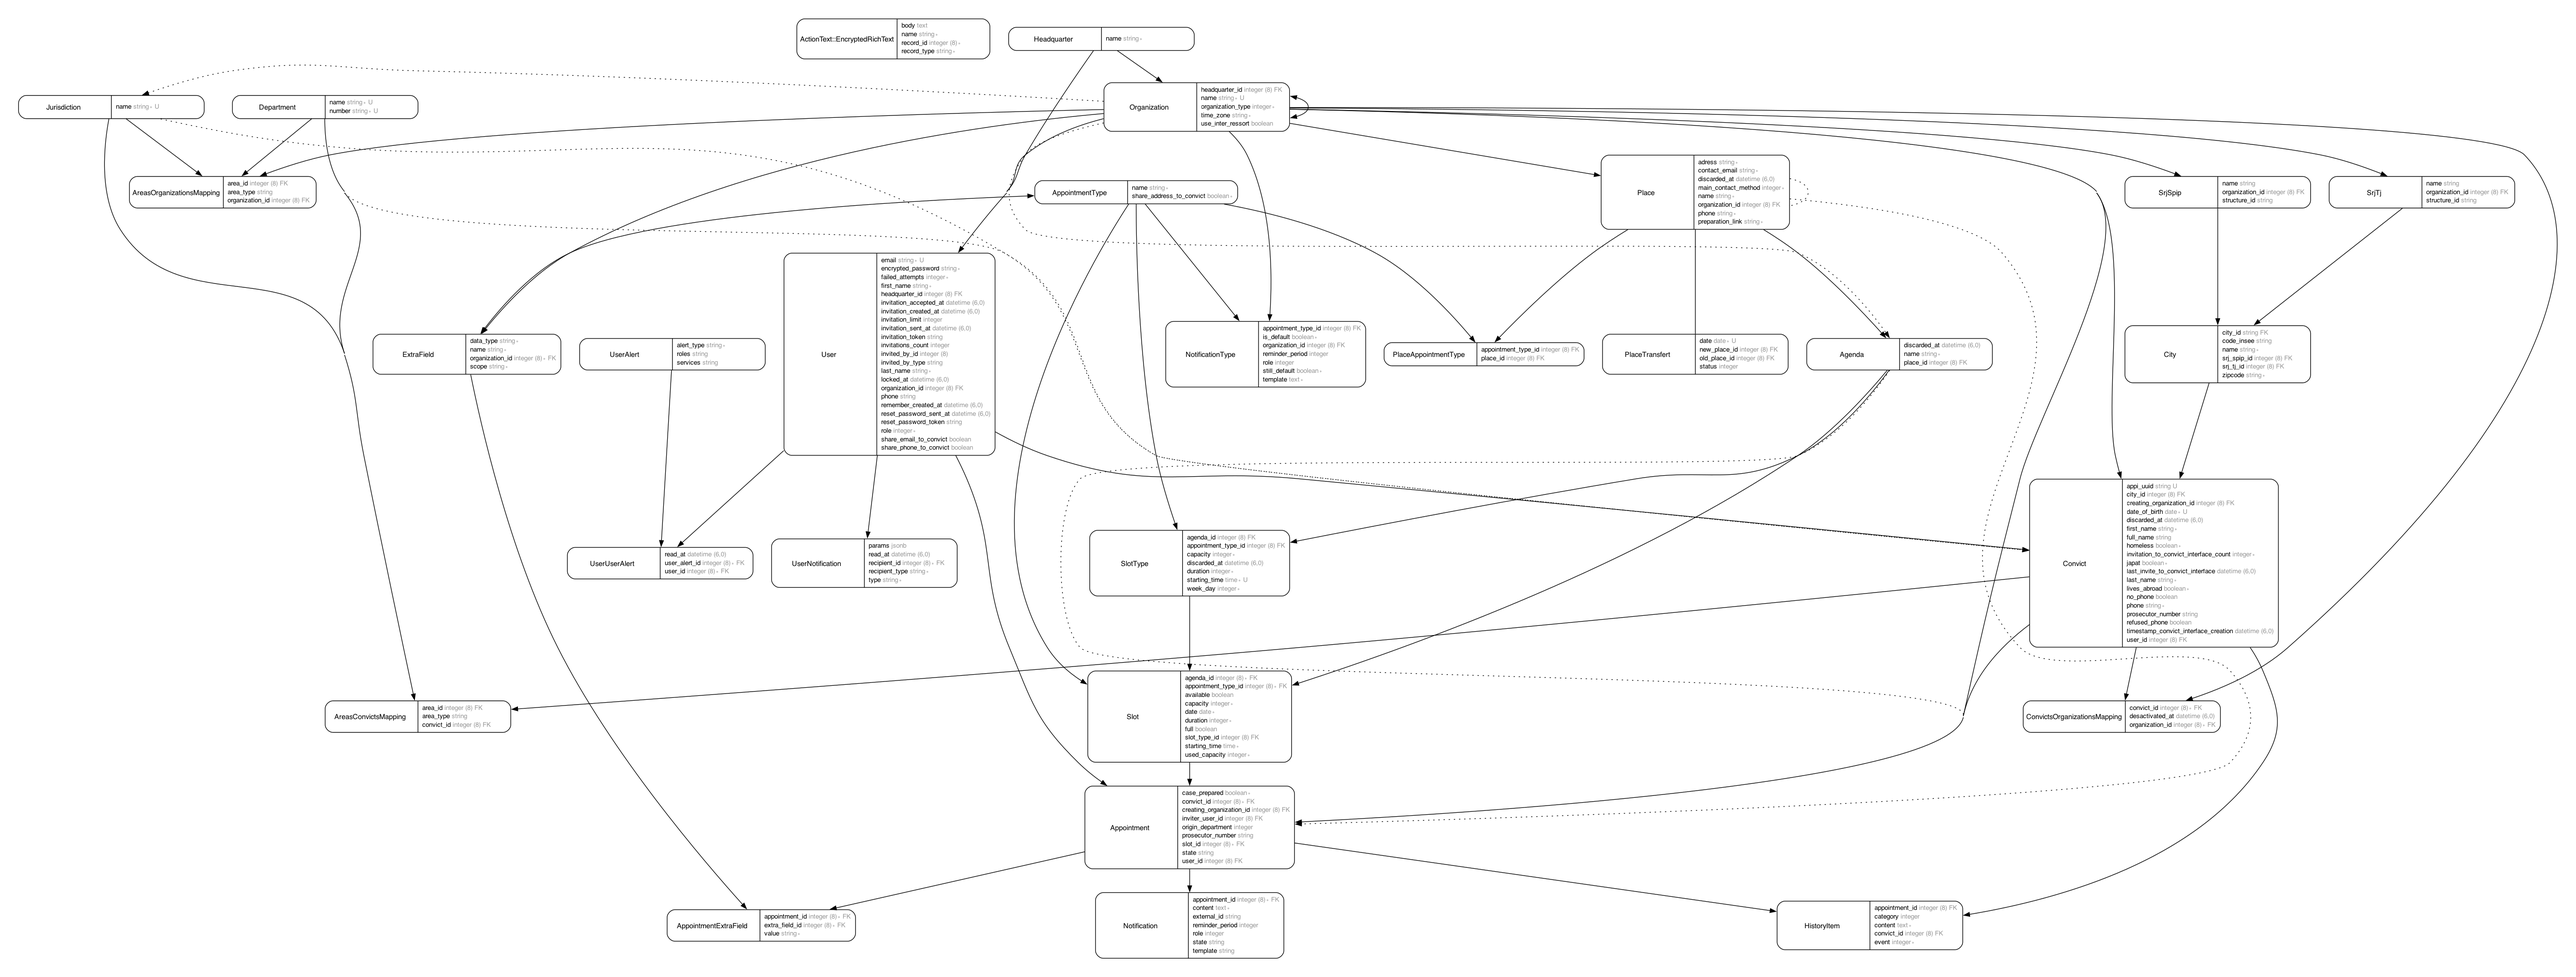
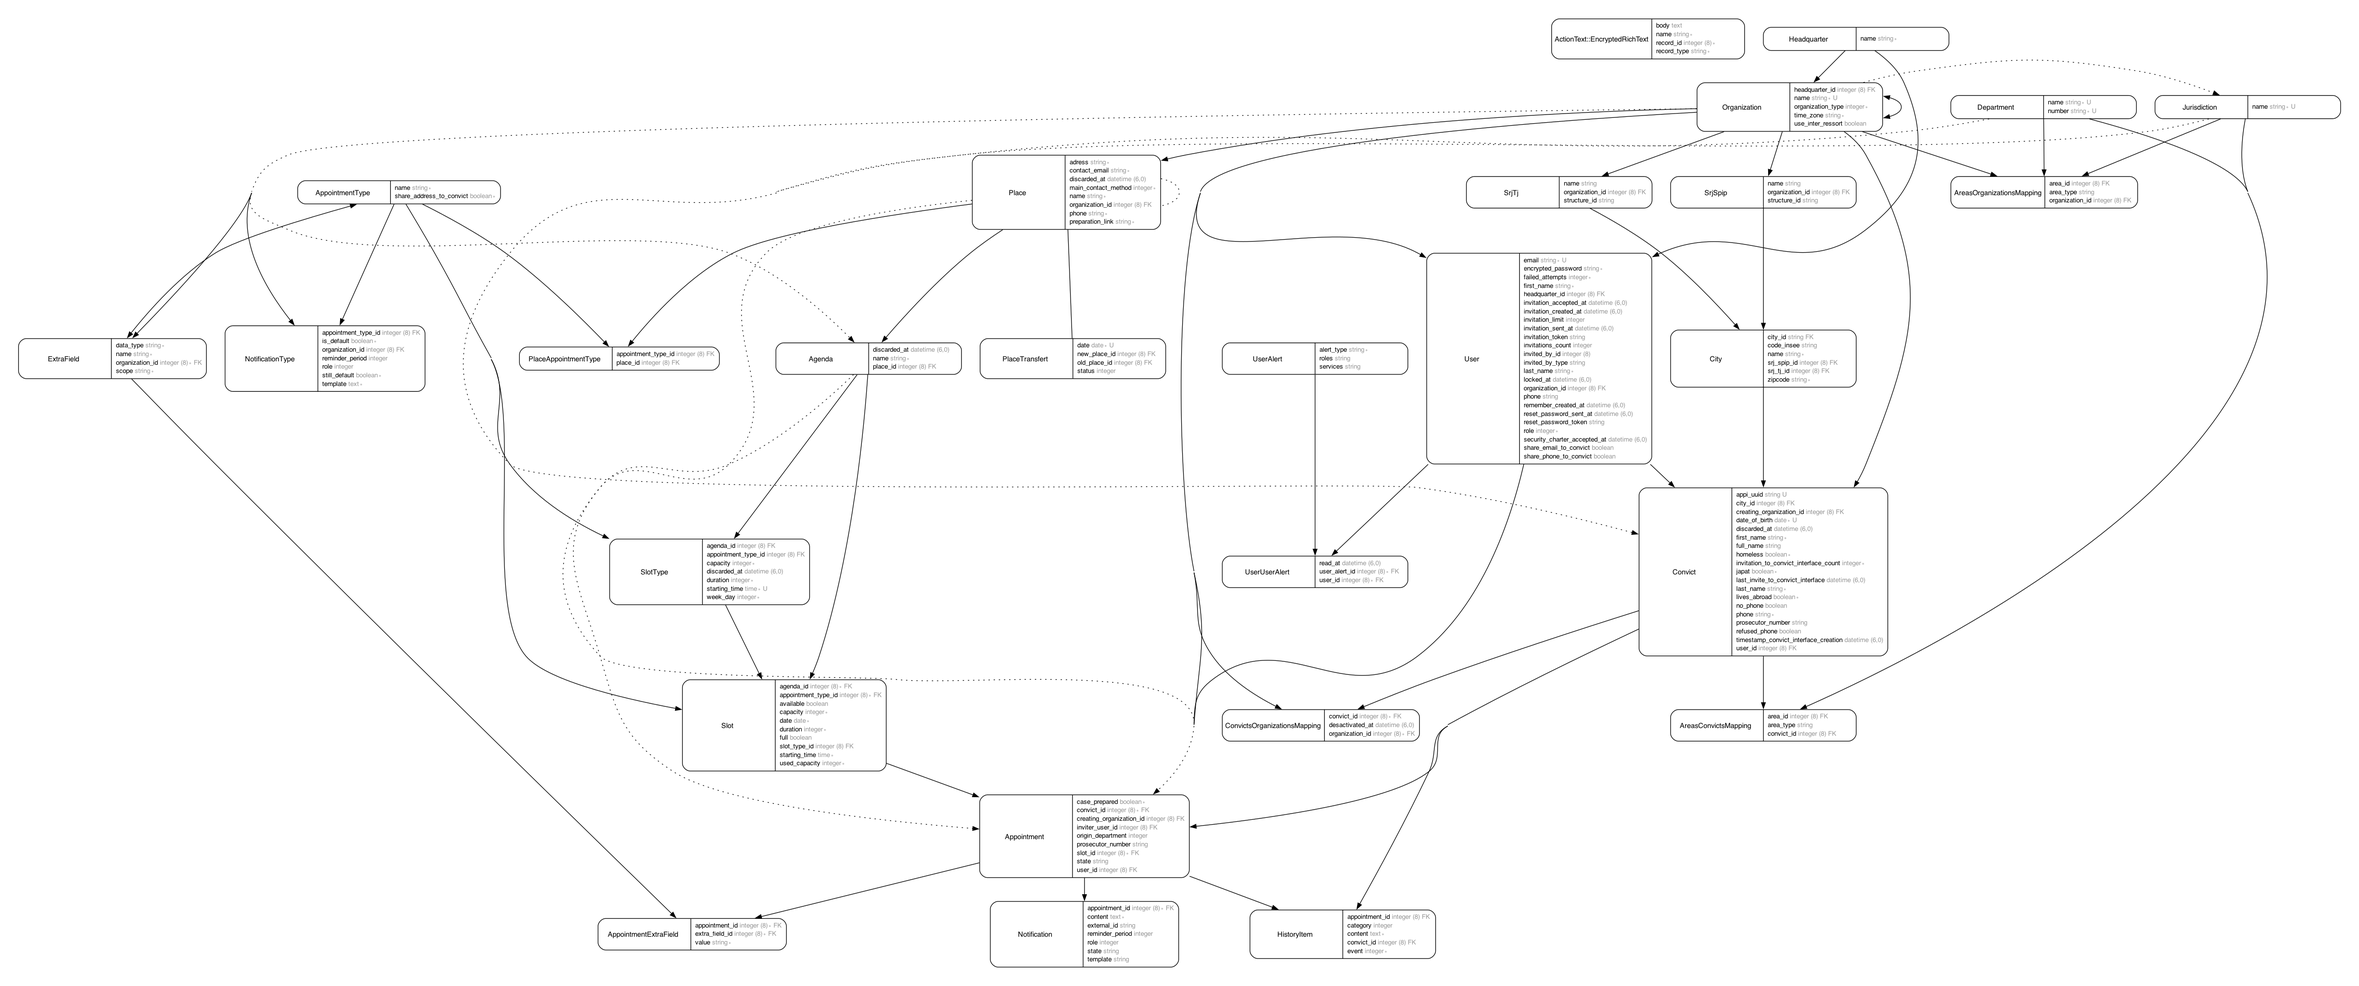
Remove user notications

diff --git a/app/assets/stylesheets/application.postcss.css b/app/assets/stylesheets/application.postcss.css
@@ -34,7 +34,6 @@
 @import "actiontext";
 
 @import "ie";
-@import "user_notification";
 
 @import "dsfr_custom";
 @import "flatpickr/dist/flatpickr.css";

diff --git a/db/schema.rb b/db/schema.rb
@@ -10,7 +10,7 @@
 #
 # It's strongly recommended that you check this file into your version control system.
 
-ActiveRecord::Schema[7.0].define(version: 2023_11_19_132139) do
+ActiveRecord::Schema[7.0].define(version: 2024_02_19_201008) do
   # These are extensions that must be enabled in order to support this database
   enable_extension "plpgsql"
   enable_extension "unaccent"
@@ -449,18 +449,6 @@ ActiveRecord::Schema[7.0].define(version: 2023_11_19_132139) do
     t.string "roles"
   end
 
-  create_table "user_notifications", force: :cascade do |t|
-    t.string "recipient_type", null: false
-    t.bigint "recipient_id", null: false
-    t.string "type", null: false
-    t.jsonb "params"
-    t.datetime "read_at"
-    t.datetime "created_at", null: false
-    t.datetime "updated_at", null: false
-    t.index ["read_at"], name: "index_user_notifications_on_read_at"
-    t.index ["recipient_type", "recipient_id"], name: "index_user_notifications_on_recipient"
-  end
-
   create_table "user_user_alerts", force: :cascade do |t|
     t.bigint "user_id", null: false
     t.bigint "user_alert_id", null: false
@@ -498,6 +486,7 @@ ActiveRecord::Schema[7.0].define(version: 2023_11_19_132139) do
     t.bigint "headquarter_id"
     t.integer "failed_attempts", default: 0, null: false
     t.datetime "locked_at"
+    t.datetime "security_charter_accepted_at"
     t.index ["email"], name: "index_users_on_email", unique: true
     t.index ["headquarter_id"], name: "index_users_on_headquarter_id"
     t.index ["invitation_token"], name: "index_users_on_invitation_token", unique: true
@@ -512,9 +501,11 @@ ActiveRecord::Schema[7.0].define(version: 2023_11_19_132139) do
     t.bigint "item_id", null: false
     t.string "event", null: false
     t.string "whodunnit"
-    t.text "object"
+    t.text "old_object"
     t.datetime "created_at"
-    t.text "object_changes"
+    t.text "old_object_changes"
+    t.jsonb "object"
+    t.jsonb "object_changes"
     t.index ["item_type", "item_id"], name: "index_versions_on_item_type_and_item_id"
   end
 

diff --git a/app/controllers/convict_invitations_controller.rb b/app/controllers/convict_invitations_controller.rb
@@ -4,10 +4,8 @@ class ConvictInvitationsController < ApplicationController
   def create
     @convict = Convict.find(params[:convict_id])
     authorize @convict, policy_class: ConvictInvitationPolicy
-    params = { phone: @convict.phone, msj_id: @convict.id, first_name: @convict.first_name,
-               last_name: @convict.last_name }
 
-    InviteConvictJob.perform_later(@convict.id, current_user)
+    InviteConvictJob.perform_later(@convict.id)
 
     redirect_to convict_path(@convict), notice: t('.invitation_pending')
   end

diff --git a/app/models/user.rb b/app/models/user.rb
@@ -10,7 +10,6 @@ class User < ApplicationRecord
   has_many :appointments, dependent: :nullify
   has_many :invited_appointments, class_name: 'Appointment', foreign_key: :inviter_user_id, dependent: :nullify
   has_many :visits, class_name: 'Ahoy::Visit'
-  has_many :user_notifications, as: :recipient, dependent: :destroy
   has_many :user_user_alerts, dependent: :destroy
   has_many :user_alerts, through: :user_user_alerts
   has_many :unread_user_alerts, -> { where(user_user_alerts: { read_at: nil }) },

diff --git a/app/jobs/invite_convict_job.rb b/app/jobs/invite_convict_job.rb
@@ -2,7 +2,7 @@ class InviteConvictJob < ApplicationJob
   sidekiq_options retry: 5
 
   queue_as :default
-  def perform(convict_id, current_user = nil)
+  def perform(convict_id)
     @convict = Convict.find(convict_id)
     return unless @convict.phone.present?
 

diff --git a/db/migrate/20240219201008_remove_user_notifications_table.rb b/db/migrate/20240219201008_remove_user_notifications_table.rb
@@ -1,0 +1,5 @@
+class RemoveUserNotificationsTable < ActiveRecord::Migration[7.0]
+  def change
+    drop_table :user_notifications
+  end
+end
